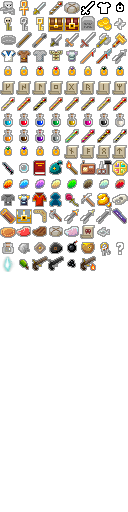
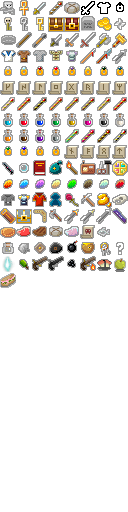
Add new Food types: Apple, Sushi, Lobster Sub.

Changed region(s): [[0.75, 0.5, 1.0, 0.5312], [0.0, 0.5312, 0.125, 0.5625]]

diff --git a/java/com/poorcoding/dixelpungeon/actors/mobs/Mob.java b/java/com/poorcoding/dixelpungeon/actors/mobs/Mob.java
@@ -37,12 +37,15 @@ import com.poorcoding.dixelpungeon.items.Generator;
 import com.poorcoding.dixelpungeon.items.Gold;
 import com.poorcoding.dixelpungeon.items.Item;
 import com.poorcoding.dixelpungeon.items.Soul;
+import com.poorcoding.dixelpungeon.items.food.Apple;
 import com.poorcoding.dixelpungeon.items.food.ChargrilledMeat;
 import com.poorcoding.dixelpungeon.items.food.Food;
 import com.poorcoding.dixelpungeon.items.food.FrozenCarpaccio;
+import com.poorcoding.dixelpungeon.items.food.LobsterSubmarineSandwich;
 import com.poorcoding.dixelpungeon.items.food.MysteryMeat;
 import com.poorcoding.dixelpungeon.items.food.OverpricedRation;
 import com.poorcoding.dixelpungeon.items.food.Pasty;
+import com.poorcoding.dixelpungeon.items.food.Sushi;
 import com.poorcoding.dixelpungeon.levels.Level;
 import com.poorcoding.dixelpungeon.sprites.CharSprite;
 import com.poorcoding.dixelpungeon.utils.GLog;
@@ -403,12 +406,12 @@ public abstract class Mob extends Char {
 		Dungeon.level.drop( new Soul(HT), pos ).sprite.drop();
 
 		// Sometimes drop food.
-		if (Random.Int(0,9) == 0) {
+		if (Random.Int(0,4) == 0) {
 
 			Food eatz;
 
 			// Pick a random edible object.
-			switch (Random.Int(0,5)) {
+			switch (Random.Int(0,8)) {
 				case 0:
 					eatz = new Pasty();
 					break;
@@ -425,6 +428,15 @@ public abstract class Mob extends Char {
 					eatz = new MysteryMeat();
 					break;
 				case 5:
+					eatz = new Sushi();
+					break;
+				case 6:
+					eatz = new Apple();
+					break;
+				case 7:
+					eatz = new LobsterSubmarineSandwich();
+					break;
+				case 8:
 				default:
 					eatz = new Food();
 					break;

diff --git a/java/com/poorcoding/dixelpungeon/items/food/LobsterSubmarineSandwich.java b/java/com/poorcoding/dixelpungeon/items/food/LobsterSubmarineSandwich.java
@@ -1,0 +1,41 @@
+/*
+ * Pixel Dungeon
+ * Copyright (C) 2012-2015 Oleg Dolya
+ *
+ * This program is free software: you can redistribute it and/or modify
+ * it under the terms of the GNU General Public License as published by
+ * the Free Software Foundation, either version 3 of the License, or
+ * (at your option) any later version.
+ *
+ * This program is distributed in the hope that it will be useful,
+ * but WITHOUT ANY WARRANTY; without even the implied warranty of
+ * MERCHANTABILITY or FITNESS FOR A PARTICULAR PURPOSE.  See the
+ * GNU General Public License for more details.
+ *
+ * You should have received a copy of the GNU General Public License
+ * along with this program.  If not, see <http://www.gnu.org/licenses/>
+ */
+package com.poorcoding.dixelpungeon.items.food;
+
+import com.poorcoding.dixelpungeon.actors.buffs.Hunger;
+import com.poorcoding.dixelpungeon.sprites.ItemSpriteSheet;
+
+public class LobsterSubmarineSandwich extends Food {
+
+	{
+		name = "lobster sub";
+		image = ItemSpriteSheet.FOOD_LOBSTERSUB;
+		energy = Hunger.STARVING;
+		message = "The Lobster Sub was fecking delicious!";
+	}
+	
+	@Override
+	public String info() {
+		return "This is a genuine, limited edition Lobster Submarine Sandwich from SubTray. Its hunger satisfying properties are well known.";
+	}
+	
+	@Override
+	public int price() {
+		return 20 * quantity;
+	}
+}

diff --git a/java/com/poorcoding/dixelpungeon/items/food/Apple.java b/java/com/poorcoding/dixelpungeon/items/food/Apple.java
@@ -1,0 +1,41 @@
+/*
+ * Pixel Dungeon
+ * Copyright (C) 2012-2015 Oleg Dolya
+ *
+ * This program is free software: you can redistribute it and/or modify
+ * it under the terms of the GNU General Public License as published by
+ * the Free Software Foundation, either version 3 of the License, or
+ * (at your option) any later version.
+ *
+ * This program is distributed in the hope that it will be useful,
+ * but WITHOUT ANY WARRANTY; without even the implied warranty of
+ * MERCHANTABILITY or FITNESS FOR A PARTICULAR PURPOSE.  See the
+ * GNU General Public License for more details.
+ *
+ * You should have received a copy of the GNU General Public License
+ * along with this program.  If not, see <http://www.gnu.org/licenses/>
+ */
+package com.poorcoding.dixelpungeon.items.food;
+
+import com.poorcoding.dixelpungeon.actors.buffs.Hunger;
+import com.poorcoding.dixelpungeon.sprites.ItemSpriteSheet;
+
+public class Apple extends Food {
+
+	{
+		name = "apple";
+		image = ItemSpriteSheet.FOOD_APPLE;
+		energy = Hunger.STARVING - Hunger.HUNGRY;
+		message = "That apple was surprisingly crisp, for being a demonspawn fruit of the underworld.";
+	}
+	
+	@Override
+	public String info() {
+		return "A ripe green apple.";
+	}
+	
+	@Override
+	public int price() {
+		return 10 * quantity;
+	}
+}

diff --git a/java/com/poorcoding/dixelpungeon/items/food/Sushi.java b/java/com/poorcoding/dixelpungeon/items/food/Sushi.java
@@ -1,0 +1,41 @@
+/*
+ * Pixel Dungeon
+ * Copyright (C) 2012-2015 Oleg Dolya
+ *
+ * This program is free software: you can redistribute it and/or modify
+ * it under the terms of the GNU General Public License as published by
+ * the Free Software Foundation, either version 3 of the License, or
+ * (at your option) any later version.
+ *
+ * This program is distributed in the hope that it will be useful,
+ * but WITHOUT ANY WARRANTY; without even the implied warranty of
+ * MERCHANTABILITY or FITNESS FOR A PARTICULAR PURPOSE.  See the
+ * GNU General Public License for more details.
+ *
+ * You should have received a copy of the GNU General Public License
+ * along with this program.  If not, see <http://www.gnu.org/licenses/>
+ */
+package com.poorcoding.dixelpungeon.items.food;
+
+import com.poorcoding.dixelpungeon.actors.buffs.Hunger;
+import com.poorcoding.dixelpungeon.sprites.ItemSpriteSheet;
+
+public class Sushi extends Food {
+
+	{
+		name = "sushi";
+		image = ItemSpriteSheet.FOOD_SUSHI;
+		energy = Hunger.STARVING;
+		message = "Mmmm, sushi!";
+	}
+	
+	@Override
+	public String info() {
+		return "This sushi looks fresh and nutritious... These MOBs sure do know how to eat well down here.";
+	}
+	
+	@Override
+	public int price() {
+		return 20 * quantity;
+	}
+}

diff --git a/java/com/poorcoding/dixelpungeon/items/Generator.java b/java/com/poorcoding/dixelpungeon/items/Generator.java
@@ -24,8 +24,11 @@ import com.poorcoding.dixelpungeon.actors.hero.Hero;
 import com.poorcoding.dixelpungeon.items.armor.*;
 import com.poorcoding.dixelpungeon.items.bags.Bag;
 import com.poorcoding.dixelpungeon.items.food.Food;
+import com.poorcoding.dixelpungeon.items.food.LobsterSubmarineSandwich;
 import com.poorcoding.dixelpungeon.items.food.MysteryMeat;
 import com.poorcoding.dixelpungeon.items.food.Pasty;
+import com.poorcoding.dixelpungeon.items.food.Sushi;
+import com.poorcoding.dixelpungeon.items.food.Apple;
 import com.poorcoding.dixelpungeon.items.potions.*;
 import com.poorcoding.dixelpungeon.items.rings.*;
 import com.poorcoding.dixelpungeon.items.scrolls.*;
@@ -168,8 +171,12 @@ public class Generator {
 		Category.FOOD.classes = new Class<?>[]{ 
 			Food.class, 
 			Pasty.class,
-			MysteryMeat.class };
-		Category.FOOD.probs = new float[]{ 4, 1, 0 };
+			MysteryMeat.class,
+			Sushi.class,
+			Apple.class,
+			LobsterSubmarineSandwich.class
+		};
+		Category.FOOD.probs = new float[]{ 4, 1, 0, 4, 8, 4};
 			
 		Category.RING.classes = new Class<?>[]{ 
 			RingOfMending.class,

diff --git a/java/com/poorcoding/dixelpungeon/actors/mobs/Piranha.java b/java/com/poorcoding/dixelpungeon/actors/mobs/Piranha.java
@@ -29,6 +29,7 @@ import com.poorcoding.dixelpungeon.actors.buffs.Frost;
 import com.poorcoding.dixelpungeon.actors.buffs.Paralysis;
 import com.poorcoding.dixelpungeon.actors.buffs.Roots;
 import com.poorcoding.dixelpungeon.items.food.MysteryMeat;
+import com.poorcoding.dixelpungeon.items.food.Sushi;
 import com.poorcoding.dixelpungeon.levels.Level;
 import com.poorcoding.dixelpungeon.sprites.PiranhaSprite;
 import com.poorcoding.utils.Random;
@@ -78,7 +79,8 @@ public class Piranha extends Mob {
 	
 	@Override
 	public void die( Object cause ) {
-		Dungeon.level.drop( new MysteryMeat(), pos ).sprite.drop();
+		//Dungeon.level.drop( new MysteryMeat(), pos ).sprite.drop();
+		Dungeon.level.drop( new Sushi(), pos ).sprite.drop();
 		super.die( cause );
 		
 		Statistics.piranhasKilled++;

diff --git a/java/com/poorcoding/dixelpungeon/sprites/ItemSpriteSheet.java b/java/com/poorcoding/dixelpungeon/sprites/ItemSpriteSheet.java
@@ -188,4 +188,8 @@ public class ItemSpriteSheet {
 	public static final int FIREARM_GENERIC = 130;
 	public static final int FIREARM_FIRE = 131;
 	public static final int BULLET = 132;
+	public static final int FIREARM_FIRE_OVERLAY = 133;
+	public static final int FOOD_SUSHI = 134;
+	public static final int FOOD_APPLE = 135;
+	public static final int FOOD_LOBSTERSUB = 136;
 }
